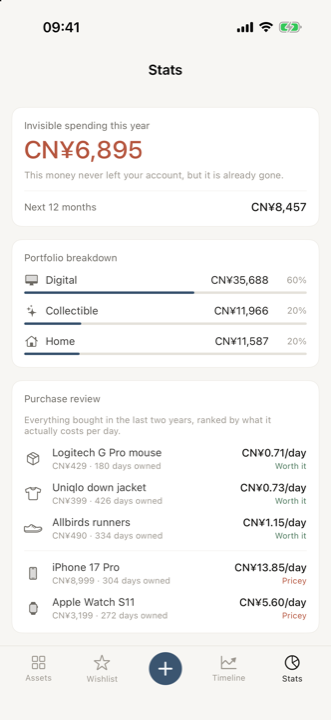
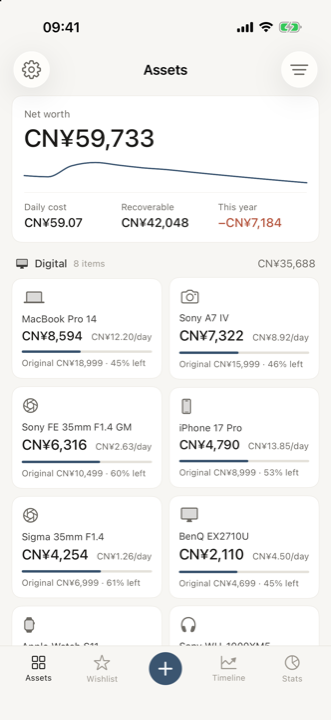
跟上 app：列表改为按大类分区，示例数据可一键清除
FAQ 里「轻记录 / 资产线」那条换成分区说明，另加一条讲示例数据的去留。
六张截图全部重出——列表结构变了，站点上的图不能和真实 app 对不上。

diff --git a/index.html b/index.html
@@ -126,16 +126,22 @@
         <p class="muted" lang="zh">可以——在价格旁边选货币即可。这笔金额按你买入那个月份的汇率锁定到主货币，因为「当时花了多少」是历史事实，不该随汇率漂移。而这件物品的<em>当前</em>价值走的是今天的汇率。主货币在<em>「设置」</em>里改。</p>
       </div>
       <div class="card">
-        <h3 lang="en">Why don't cheap things count toward net worth?</h3>
-        <h3 lang="zh">便宜的东西为什么不计入净值？</h3>
-        <p class="muted" lang="en">Anything below the asset line goes to <em>Light records</em> — still tracked, still showing a per-day cost, but kept out of the total. A ¥300 T-shirt sitting in a ¥180,000 table only makes the number dirty. Move the line in <em>Settings</em>.</p>
-        <p class="muted" lang="zh">低于资产线的东西归入<em>「轻记录」</em>——仍然被记录，仍然显示日均成本，但不进总数。一件 300 块的 T 恤混在 18 万的资产表里，只会让数字变脏。这条线可以在<em>「设置」</em>里调。</p>
+        <h3 lang="en">How is the list organised?</h3>
+        <h3 lang="zh">列表是怎么组织的？</h3>
+        <p class="muted" lang="en">By category — digital, home, collectible, mobility, apparel — each group showing its own subtotal, sorted so the group holding the most value comes first. Within a group, items are sorted by current value. Clothing and shoes headline a per-day cost instead of a residual value, because the residual on a T-shirt is a meaningless number.</p>
+        <p class="muted" lang="zh">按大类分区——数码影像、家居家电、收藏保值、出行运动、衣着——每组带自己的小计，价值最高的组排在最前面。组内按当前价值排序。衣物和鞋履的主指标是日均成本而不是剩余价值，因为一件 T 恤的「残值」是个没有意义的数字。</p>
       </div>
       <div class="card">
         <h3 lang="en">Something I own isn't recognised.</h3>
         <h3 lang="zh">我有件东西它没认出来。</h3>
         <p class="muted" lang="en">The bundled catalogue covers common electronics, cameras, lenses and consoles. Anything unknown still works — it falls back to the category curve and you can calibrate it. Send the model name over and it gets added.</p>
         <p class="muted" lang="zh">内置目录覆盖常见的数码、相机、镜头和游戏机。没收录的照样能用——会回落到品类曲线，也可以自己校准。把型号名发过来就能加进去。</p>
+      </div>
+      <div class="card">
+        <h3 lang="en">What about the sample items it starts with?</h3>
+        <h3 lang="zh">一开始那些示例物品怎么办？</h3>
+        <p class="muted" lang="en">They exist so the first screen isn't empty. The moment you record something of your own they all disappear on their own — or clear them straight away from <em>Settings</em>.</p>
+        <p class="muted" lang="zh">它们的存在只是为了让第一屏不至于是空的。你一记下自己的东西，它们就会整批自动消失——也可以在<em>「设置」</em>里直接清掉。</p>
       </div>
       <div class="card">
         <h3 lang="en">How do I switch language?</h3>
